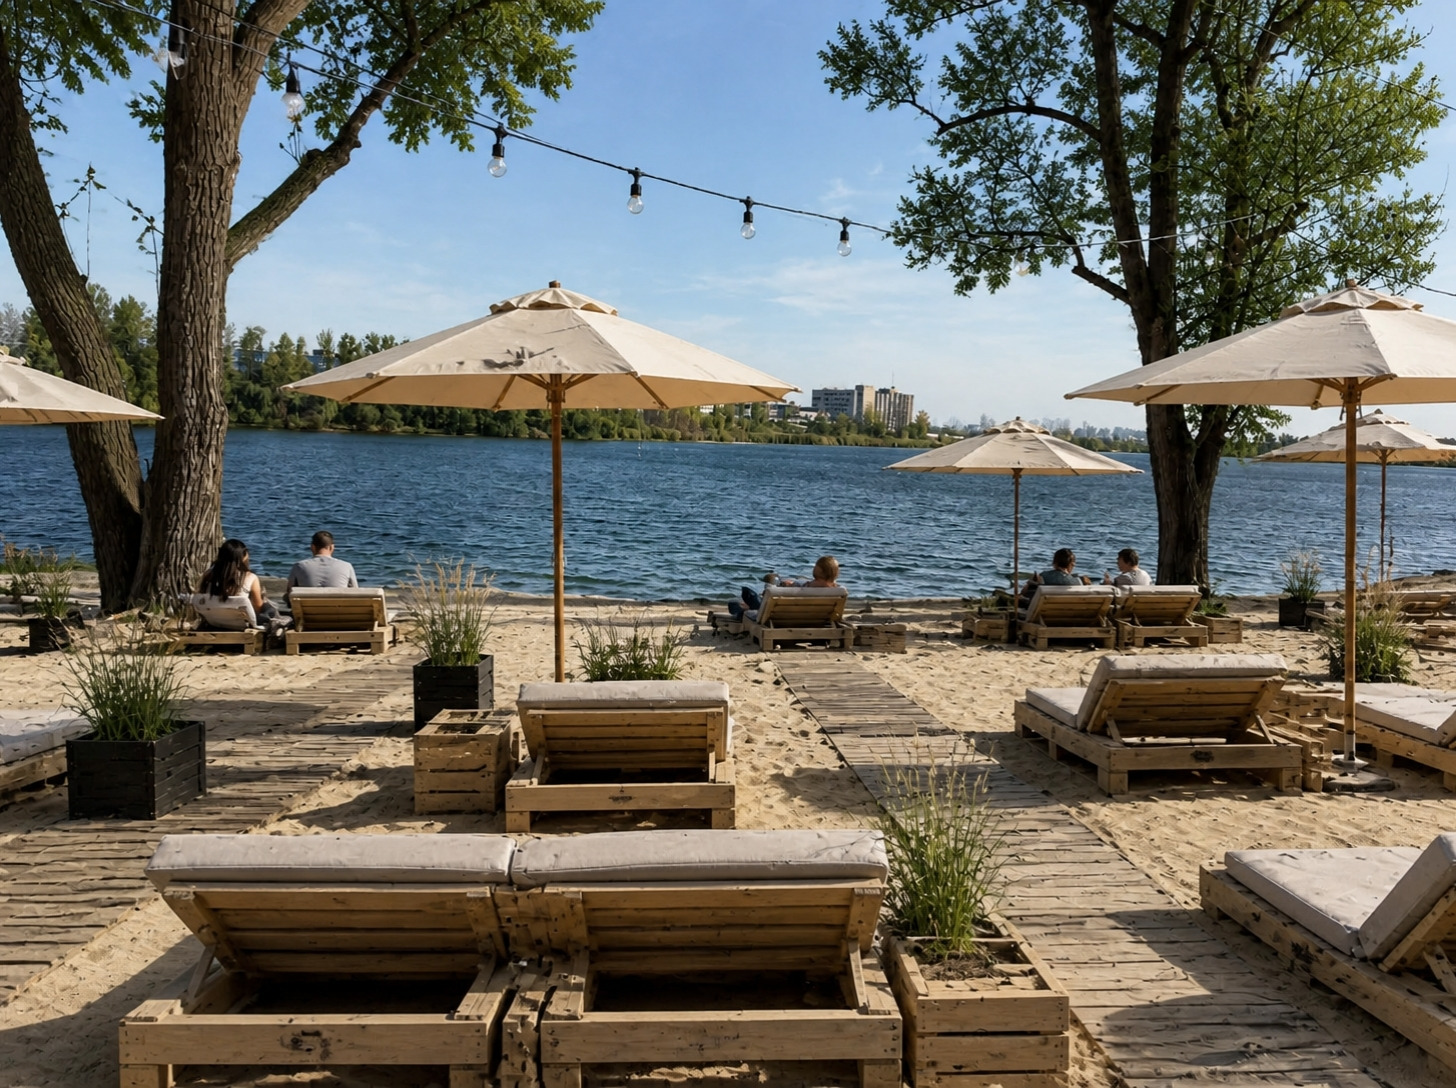
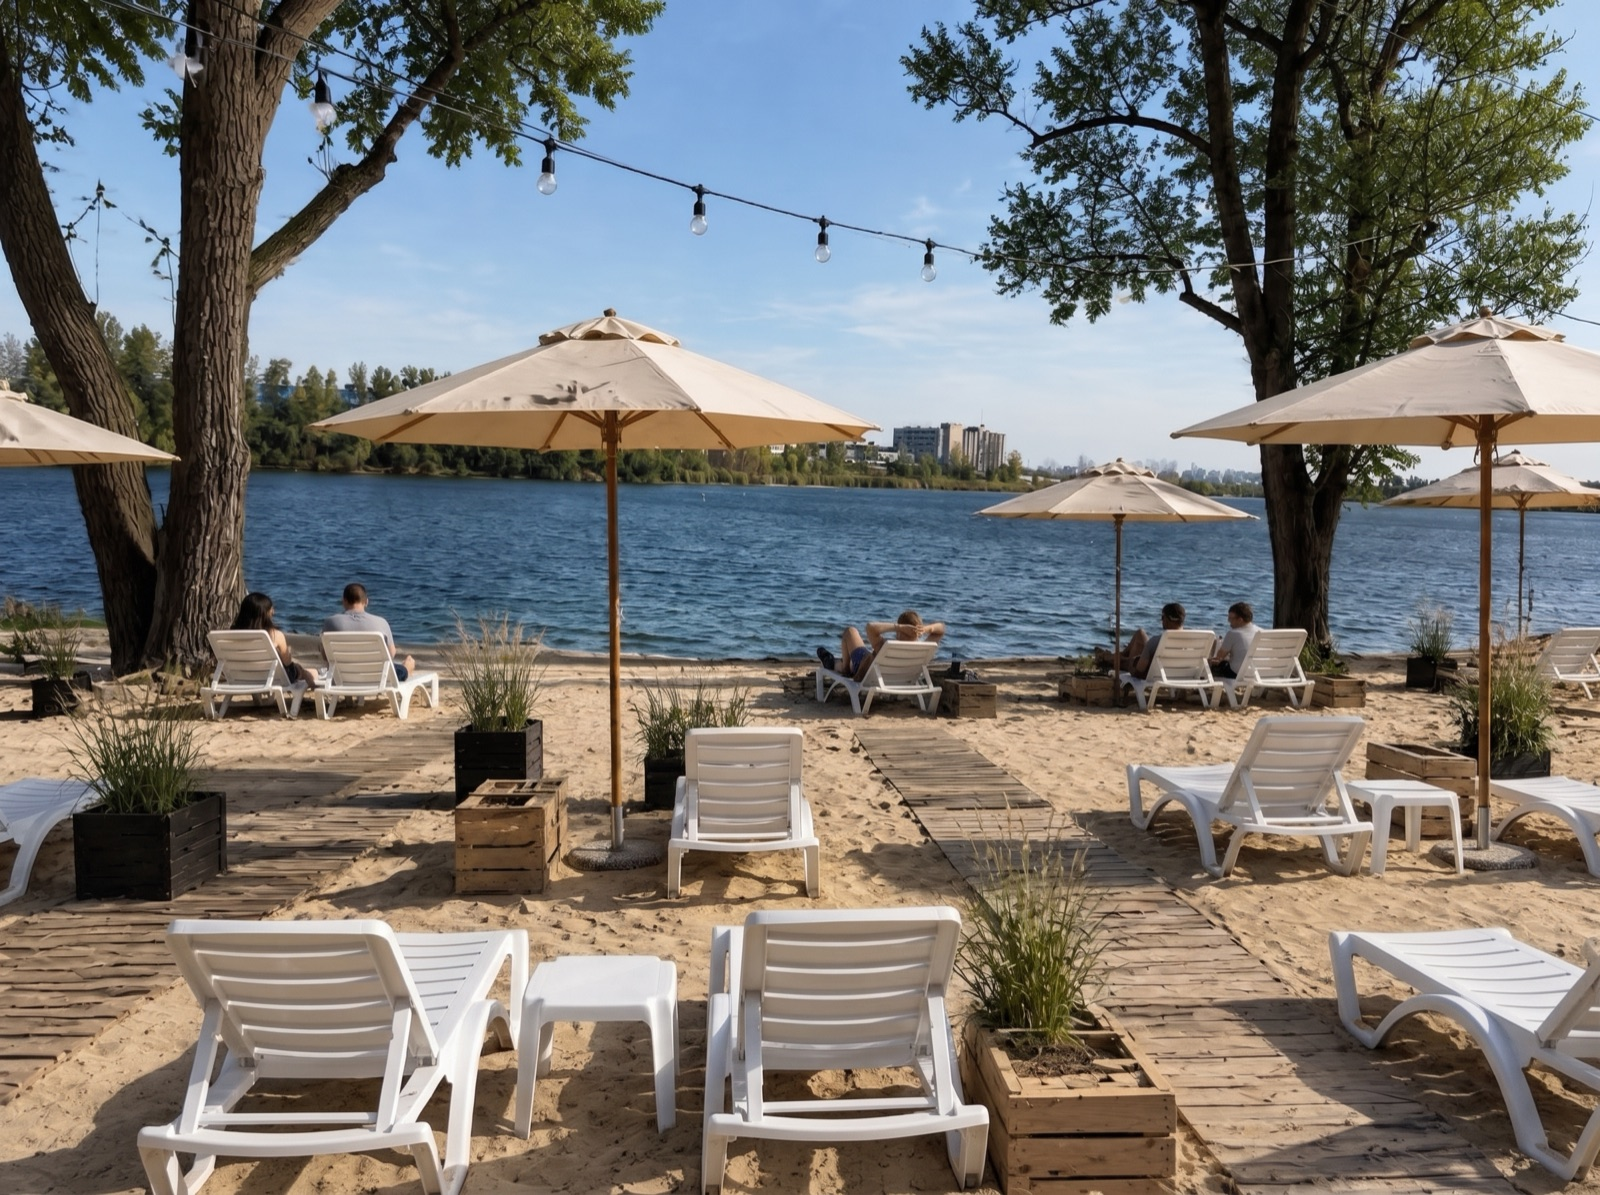
plyazh: photorealistic Gemini renders (gazebos, beach, bar+hookah, cabin to scale, cape at sunset)

diff --git a/plyazh/proekt/index.html b/plyazh/proekt/index.html
@@ -322,12 +322,15 @@ body.noscroll{overflow:hidden}
     <section class="part" id="viz">
       <div class="kicker">06 · Візуалізації</div>
       <h2>Як це виглядатиме</h2>
-      <p class="hint">Види у вибраному стилі: світле дерево, льон, обпалене дерево, гірлянди. Кожна картинка відкривається у повному розмірі.</p>
+      <p class="hint">Фотореалістичні види, зроблені з реальних фото ділянки (той самий ракурс, дерева і вода). Бюджет середній: прості матеріали, білі пластикові лежаки. Кожна картинка відкривається у повному розмірі. Наприкінці — кадри з 3D-моделі.</p>
       <div class="photos viz">
-        <figure><a href="foto/3d-plyazh.jpg" target="_blank" rel="noopener"><img src="foto/3d-plyazh.jpg" alt="" loading="lazy"></a><figcaption>Пляж з 3D-моделі: білі пластикові лежаки, прості парасолі, ряд беседок</figcaption></figure>
-        <figure><a href="foto/after-vip.jpg" target="_blank" rel="noopener"><img src="foto/after-vip.jpg" alt="VIP-альтанки" loading="lazy"></a><figcaption>VIP-альтанки зі шторами з льону на піску біля води</figcaption></figure>
-        <figure><a href="foto/after-bar.jpg" target="_blank" rel="noopener"><img src="foto/after-bar.jpg" alt="Бар" loading="lazy"></a><figcaption>Бар біля сірого будиночка: стійка з обпаленого дерева, тераса</figcaption></figure>
-        <figure><a href="foto/after-domyky.jpg" target="_blank" rel="noopener"><img src="foto/after-domyky.jpg" alt="Будиночки з чанами" loading="lazy"></a><figcaption>Будиночок з чаном на боці ліска, вихід до тихої води (другий поруч)</figcaption></figure>
+        <figure><a href="foto/after-besidky.jpg" target="_blank" rel="noopener"><img src="foto/after-besidky.jpg" alt="Ряд беседок на пляжі" loading="lazy"></a><figcaption>Ряд беседок 6×4 м уздовж пляжу: брус під горіх з розкосами, борти з дошки, графітовий профнастил; перед ними білі пластикові лежаки</figcaption></figure>
+        <figure><a href="foto/after-besidky-lyudy.jpg" target="_blank" rel="noopener"><img src="foto/after-besidky-lyudy.jpg" alt="Беседки з відпочивальниками" loading="lazy"></a><figcaption>Беседки між деревами біля води: стіл і лавки всередині, компанії на 6–8 людей</figcaption></figure>
+        <figure><a href="foto/after-plyazh.jpg" target="_blank" rel="noopener"><img src="foto/after-plyazh.jpg" alt="Пляж" loading="lazy"></a><figcaption>Пляж: прості білі пластикові лежаки, бежеві парасолі, дерев'яні настили, гірлянди між деревами</figcaption></figure>
+        <figure><a href="foto/after-bar.jpg" target="_blank" rel="noopener"><img src="foto/after-bar.jpg" alt="Бар і кальянна" loading="lazy"></a><figcaption>Бар з навісом і барними стільцями, поруч дерев'яний кіоск «КАЛЬЯН» з віконцем «кальян на винос»</figcaption></figure>
+        <figure><a href="foto/after-domyky.jpg" target="_blank" rel="noopener"><img src="foto/after-domyky.jpg" alt="Будиночок з чаном" loading="lazy"></a><figcaption>Будиночок 8×5 м на палях у ліску, тераса і дерев'яний чан Ø 2 м (другий будиночок поруч)</figcaption></figure>
+        <figure><a href="foto/after-mys.jpg" target="_blank" rel="noopener"><img src="foto/after-mys.jpg" alt="Вечір на мисі" loading="lazy"></a><figcaption>Вечір на мисі: захід сонця, лежаки, гойдалка, гірлянди і ліхтарі на піску</figcaption></figure>
+        <figure><a href="foto/after-vip.jpg" target="_blank" rel="noopener"><img src="foto/after-vip.jpg" alt="VIP-альтанки" loading="lazy"></a><figcaption>4 VIP-альтанки зі шторами з льону на піску біля води</figcaption></figure>
         <figure><a href="foto/after-voleybol.jpg" target="_blank" rel="noopener"><img src="foto/after-voleybol.jpg" alt="Волейбол і діти" loading="lazy"></a><figcaption>Волейбол: сітка на існуючих жовтих стовпах, лавки для глядачів</figcaption></figure>
         <figure><a href="foto/3d-besidky2.jpg" target="_blank" rel="noopener"><img src="foto/3d-besidky2.jpg" alt="" loading="lazy"></a><figcaption>10 беседок 6×4 м уздовж пляжу (3D-модель)</figcaption></figure>
         <figure><a href="foto/3d-besidky.jpg" target="_blank" rel="noopener"><img src="foto/3d-besidky.jpg" alt="" loading="lazy"></a><figcaption>Беседка зблизька: брус з розкосами, борти, дах з профнастилу (3D-модель)</figcaption></figure>
@@ -348,10 +351,12 @@ body.noscroll{overflow:hidden}
       <h2>Той самий берег, до і після</h2>
       <p class="hint">Тягніть повзунок: ліворуч фото ділянки 30 жовтня, праворуч те саме місце з того самого ракурсу після благоустрою.</p>
       <div class="bagrid">
+        <figure><div class="ba"><img src="foto/before-plyazh.jpg" alt="Зараз: Пляж і беседки" loading="lazy"><img class="after" src="foto/after-besidky.jpg" alt="Буде: Пляж і беседки" loading="lazy"><span class="line"></span><span class="knob">⟷</span><span class="tg l">Зараз</span><span class="tg r">Буде</span></div><figcaption>Пляж і беседки</figcaption></figure>
         <figure><div class="ba"><img src="foto/before-vip.jpg" alt="Зараз: VIP-альтанки" loading="lazy"><img class="after" src="foto/after-vip.jpg" alt="Буде: VIP-альтанки" loading="lazy"><span class="line"></span><span class="knob">⟷</span><span class="tg l">Зараз</span><span class="tg r">Буде</span></div><figcaption>VIP-альтанки</figcaption></figure>
         <figure><div class="ba"><img src="foto/before-bar.jpg" alt="Зараз: Бар" loading="lazy"><img class="after" src="foto/after-bar.jpg" alt="Буде: Бар" loading="lazy"><span class="line"></span><span class="knob">⟷</span><span class="tg l">Зараз</span><span class="tg r">Буде</span></div><figcaption>Бар</figcaption></figure>
         <figure><div class="ba"><img src="foto/before-domyky.jpg" alt="Зараз: Будиночки з чанами" loading="lazy"><img class="after" src="foto/after-domyky.jpg" alt="Буде: Будиночки з чанами" loading="lazy"><span class="line"></span><span class="knob">⟷</span><span class="tg l">Зараз</span><span class="tg r">Буде</span></div><figcaption>Будиночки з чанами</figcaption></figure>
         <figure><div class="ba"><img src="foto/before-voleybol.jpg" alt="Зараз: Волейбол" loading="lazy"><img class="after" src="foto/after-voleybol.jpg" alt="Буде: Волейбол" loading="lazy"><span class="line"></span><span class="knob">⟷</span><span class="tg l">Зараз</span><span class="tg r">Буде</span></div><figcaption>Волейбол</figcaption></figure>
+        <figure><div class="ba"><img src="foto/before-mys.jpg" alt="Зараз: Мис увечері" loading="lazy"><img class="after" src="foto/after-mys.jpg" alt="Буде: Мис увечері" loading="lazy"><span class="line"></span><span class="knob">⟷</span><span class="tg l">Зараз</span><span class="tg r">Буде</span></div><figcaption>Мис увечері</figcaption></figure>
       </div>
     </section>
 
@@ -456,7 +461,7 @@ try{
 const onScroll=()=>{const max=document.documentElement.scrollHeight-innerHeight;setProgress(max>0?scrollY/max:0)};
 addEventListener("scroll",onScroll,{passive:true});onScroll();
 </script>
-<script type="module" src="model3d.js?v=1794150000"></script>
+<script type="module" src="model3d.js?v=1794154000"></script>
 <script>
 document.querySelectorAll(".ba").forEach(el=>{
   const set=x=>{const r=el.getBoundingClientRect();el.style.setProperty("--pos",Math.max(0,Math.min(100,(x-r.left)/r.width*100))+"%")};

diff --git a/plyazh/proekt/model3d.js b/plyazh/proekt/model3d.js
@@ -400,9 +400,9 @@ const ZONES = [
   { id: "volley", name: "Волейбол і діти", p: [11, 4, 45], cam: [40, 20, 72], img: "foto/after-voleybol.jpg", txt: "Майданчик на існуючих стовпах, лавки для глядачів, дитячий куточок під тентом." },
   { id: "bar", name: "Бар", p: [10.5, 6, 11], cam: [42, 18, 30], img: "foto/after-bar.jpg", txt: "Бар з навісом, кухня і гриль, поруч кіоск кальянної (є «кальян на винос»), тераса з простими дерев\u0027яними столами." },
   { id: "cabins", name: "Будиночки з чанами", p: [11, 7, -27], cam: [50, 22, -10], img: "foto/after-domyky.jpg", txt: "Два будиночки на палях у ліску, на терасі в кожного свій чан." },
-  { id: "beach", name: "Пляж", p: [-11, 4, -5], cam: [-55, 26, 20], img: "foto/3d-plyazh.jpg", txt: "Білі пластикові лежаки, парасолі, 10 беседок 6×4 м під профнастилом, настили до води." },
+  { id: "beach", name: "Пляж", p: [-11, 4, -5], cam: [-55, 26, 20], img: "foto/after-besidky.jpg", txt: "Білі пластикові лежаки, парасолі, 10 беседок 6×4 м під профнастилом, настили до води." },
   { id: "sup", name: "Сапи і пірс", p: [-21, 3, -62], cam: [-55, 18, -40], img: "foto/3d-plyazh.jpg", txt: "Прокат сапів і каяків, дерев'яний пірс." },
-  { id: "mys", name: "Мис", p: [3, 7, -96], cam: [-30, 24, -130], img: "foto/before-mys.jpg", txt: "Гойдалка над водою, лежаки, понтон із катамаранами." },
+  { id: "mys", name: "Мис", p: [3, 7, -96], cam: [-30, 24, -130], img: "foto/after-mys.jpg", txt: "Гойдалка над водою, лежаки, понтон із катамаранами." },
 ];
 const card = host.querySelector(".m3d-card");
 function showCard(z) {
